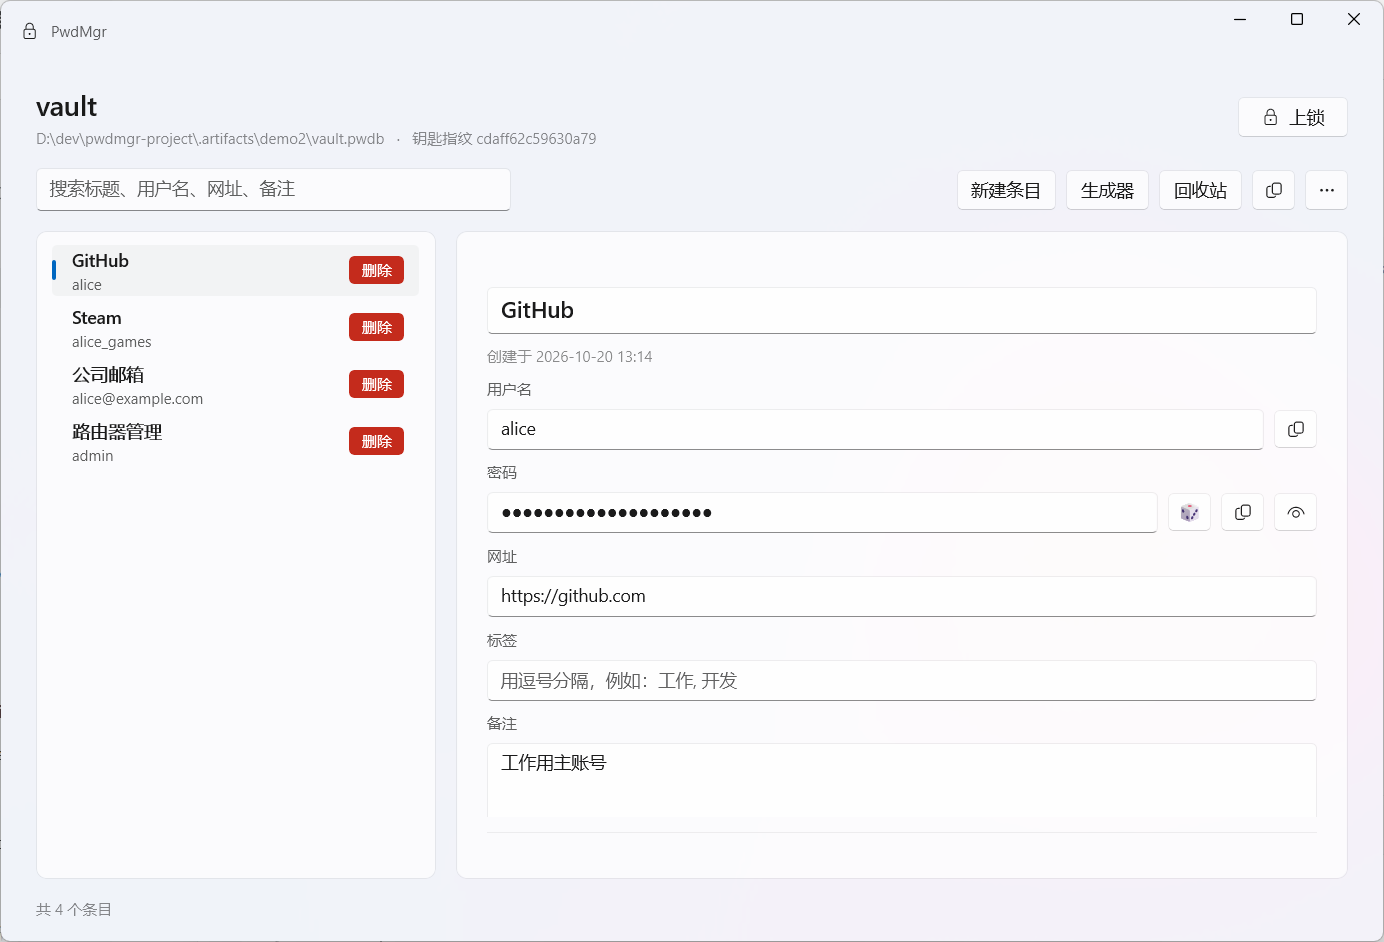
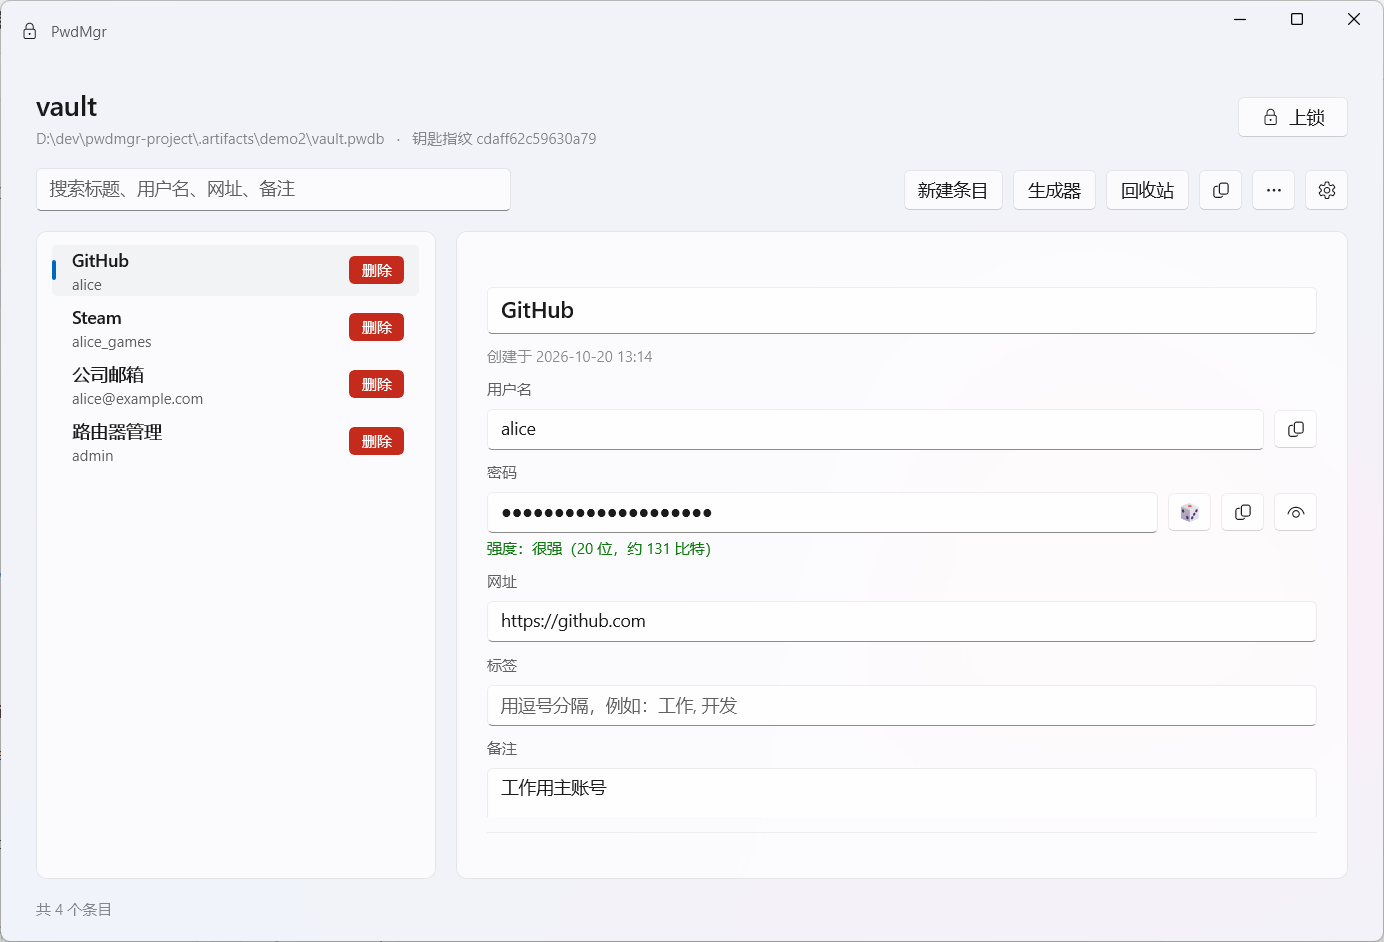
密码框下显示强度；上锁后清空钥匙路径

Changed region(s): [[0.3418, 0.5541, 0.5282, 0.8004], [0.6525, 0.1847, 0.9632, 0.2155], [0.3728, 0.8004, 0.435, 0.862]]

diff --git a/src/PwdMgr.App/Views/VaultPage.xaml b/src/PwdMgr.App/Views/VaultPage.xaml
@@ -27,7 +27,13 @@
                 <TextBlock x:Name="VaultNameText" FontSize="22" FontWeight="SemiBold" TextTrimming="CharacterEllipsis" />
                 <TextBlock x:Name="VaultMetaText" Style="{StaticResource HintTextStyle}" TextTrimming="CharacterEllipsis" />
             </StackPanel>
-            <Button Grid.Column="1" Click="OnLockClick" MinWidth="88" ToolTipService.ToolTip="锁定后需要重新选择钥匙文件">
+            <Button
+                Grid.Column="1"
+                AutomationProperties.Name="上锁"
+                AutomationProperties.AutomationId="LockButton"
+                Click="OnLockClick"
+                MinWidth="88"
+                ToolTipService.ToolTip="锁定后需要重新选择钥匙文件">
                 <StackPanel Orientation="Horizontal" Spacing="8">
                     <FontIcon Glyph="&#xE72E;" FontSize="13" />
                     <TextBlock Text="上锁" />
@@ -246,6 +252,11 @@
                                             <FontIcon Glyph="&#xE7B3;" FontSize="14" />
                                         </ToggleButton>
                                     </Grid>
+                                    <TextBlock
+                                        x:Name="PasswordStrengthText"
+                                        AutomationProperties.AutomationId="PasswordStrengthText"
+                                        Style="{StaticResource HintTextStyle}"
+                                        Text="强度：—" />
                                 </StackPanel>
 
                                 <StackPanel Spacing="4">

diff --git a/src/PwdMgr.App/App.xaml b/src/PwdMgr.App/App.xaml
@@ -46,6 +46,23 @@
                 <Setter Property="TextWrapping" Value="Wrap" />
             </Style>
 
+            <!-- 密码强度提示：用主题色区分强弱 -->
+            <Style x:Key="StrengthWeakStyle" TargetType="TextBlock">
+                <Setter Property="FontSize" Value="12" />
+                <Setter Property="Foreground" Value="{ThemeResource SystemFillColorCriticalBrush}" />
+                <Setter Property="TextWrapping" Value="Wrap" />
+            </Style>
+            <Style x:Key="StrengthMediumStyle" TargetType="TextBlock">
+                <Setter Property="FontSize" Value="12" />
+                <Setter Property="Foreground" Value="{ThemeResource SystemFillColorCautionBrush}" />
+                <Setter Property="TextWrapping" Value="Wrap" />
+            </Style>
+            <Style x:Key="StrengthStrongStyle" TargetType="TextBlock">
+                <Setter Property="FontSize" Value="12" />
+                <Setter Property="Foreground" Value="{ThemeResource SystemFillColorSuccessBrush}" />
+                <Setter Property="TextWrapping" Value="Wrap" />
+            </Style>
+
             <!-- 危险操作按钮：红底白字，悬停/按下用透明度区分（默认模板会覆盖背景色，所以自带模板） -->
             <Style x:Key="DestructiveButtonStyle" TargetType="Button">
                 <Setter Property="Background" Value="#C42B1C" />

diff --git a/src/PwdMgr.Core/Security/PasswordStrength.cs b/src/PwdMgr.Core/Security/PasswordStrength.cs
@@ -1,0 +1,97 @@
+namespace PwdMgr.Core.Security;
+
+/// <summary>密码强度评估结果。</summary>
+/// <param name="Length">密码长度（字符数）。</param>
+/// <param name="Bits">估算熵值（比特）。</param>
+/// <param name="Label">面向用户的强弱标签。</param>
+public sealed record StrengthReport(int Length, double Bits, string Label);
+
+/// <summary>
+/// 对任意密码估算强度：按出现过的字符类别粗算候选池大小，再乘长度得到熵值。
+/// 这只是一个提示，不替代真正的密码质量检查。
+/// </summary>
+public static class PasswordStrength
+{
+    private const int LowercasePool = 26;
+    private const int UppercasePool = 26;
+    private const int DigitPool = 10;
+    private const int SymbolPool = 33;
+    private const int OtherPool = 100;
+
+    public static StrengthReport Evaluate(string? password)
+    {
+        if (string.IsNullOrEmpty(password))
+        {
+            return new StrengthReport(0, 0, "—");
+        }
+
+        var pool = 0;
+        var hasLower = false;
+        var hasUpper = false;
+        var hasDigit = false;
+        var hasSymbol = false;
+        var hasOther = false;
+
+        foreach (var character in password)
+        {
+            if (char.IsAsciiLetterLower(character))
+            {
+                hasLower = true;
+            }
+            else if (char.IsAsciiLetterUpper(character))
+            {
+                hasUpper = true;
+            }
+            else if (char.IsAsciiDigit(character))
+            {
+                hasDigit = true;
+            }
+            else if (char.IsAscii(character))
+            {
+                hasSymbol = true;
+            }
+            else
+            {
+                hasOther = true;
+            }
+        }
+
+        if (hasLower)
+        {
+            pool += LowercasePool;
+        }
+
+        if (hasUpper)
+        {
+            pool += UppercasePool;
+        }
+
+        if (hasDigit)
+        {
+            pool += DigitPool;
+        }
+
+        if (hasSymbol)
+        {
+            pool += SymbolPool;
+        }
+
+        if (hasOther)
+        {
+            pool += OtherPool;
+        }
+
+        var bits = password.Length * Math.Log2(Math.Max(pool, 2));
+        return new StrengthReport(password.Length, bits, Describe(bits));
+    }
+
+    /// <summary>按熵值给出强弱标签，与生成器的口径保持一致。</summary>
+    public static string Describe(double bits) => bits switch
+    {
+        <= 0 => "—",
+        < 50 => "弱",
+        < 70 => "中等",
+        < 100 => "强",
+        _ => "很强",
+    };
+}

diff --git a/src/PwdMgr.App/Views/VaultPage.xaml.cs b/src/PwdMgr.App/Views/VaultPage.xaml.cs
@@ -434,7 +434,31 @@ public sealed partial class VaultPage : Page
 
     private void OnFieldChanged(object sender, TextChangedEventArgs e) => MarkDirty();
 
-    private void OnPasswordChanged(object sender, RoutedEventArgs e) => MarkDirty();
+    private void OnPasswordChanged(object sender, RoutedEventArgs e)
+    {
+        UpdatePasswordStrength();
+        MarkDirty();
+    }
+
+    /// <summary>密码框下方的强度提示：弱/中等/强/很强 + 估算比特数。</summary>
+    private void UpdatePasswordStrength()
+    {
+        var report = PasswordStrength.Evaluate(EditPassword.Password);
+
+        PasswordStrengthText.Text = report.Length == 0
+            ? "强度：—（还没有密码）"
+            : $"强度：{report.Label}（{report.Length} 位，约 {report.Bits:0} 比特）";
+
+        var styleKey = report.Label switch
+        {
+            "弱" => "StrengthWeakStyle",
+            "中等" => "StrengthMediumStyle",
+            "强" or "很强" => "StrengthStrongStyle",
+            _ => "HintTextStyle",
+        };
+
+        PasswordStrengthText.Style = (Style)Application.Current.Resources[styleKey];
+    }
 
     private void OnToggleRevealClick(object sender, RoutedEventArgs e)
     {
@@ -595,6 +619,8 @@ public sealed partial class VaultPage : Page
         RevealButton.IsChecked = false;
         EditPassword.PasswordRevealMode = PasswordRevealMode.Hidden;
 
+        UpdatePasswordStrength();
+
         UpdateActionBar();
         _isLoading = false;
 
@@ -632,6 +658,8 @@ public sealed partial class VaultPage : Page
 
         RevealButton.IsChecked = false;
         EditPassword.PasswordRevealMode = PasswordRevealMode.Hidden;
+
+        UpdatePasswordStrength();
 
         _baseline = CaptureForm();
         UpdateActionBar();

diff --git a/tests/PwdMgr.Core.Tests/PasswordStrengthTests.cs b/tests/PwdMgr.Core.Tests/PasswordStrengthTests.cs
@@ -1,0 +1,65 @@
+using PwdMgr.Core.Security;
+using Xunit;
+
+namespace PwdMgr.Core.Tests;
+
+public sealed class PasswordStrengthTests
+{
+    [Theory]
+    [InlineData(null)]
+    [InlineData("")]
+    public void Evaluate_Empty_ReturnsDash(string? password)
+    {
+        var report = PasswordStrength.Evaluate(password);
+
+        Assert.Equal(0, report.Length);
+        Assert.Equal(0, report.Bits);
+        Assert.Equal("—", report.Label);
+    }
+
+    [Fact]
+    public void Evaluate_ShortSimplePassword_IsWeak()
+    {
+        var report = PasswordStrength.Evaluate("abc123");
+
+        Assert.Equal(6, report.Length);
+        Assert.Equal("弱", report.Label);
+    }
+
+    [Fact]
+    public void Evaluate_LongMixedPassword_IsVeryStrong()
+    {
+        var report = PasswordStrength.Evaluate("Tr0ub4dor&3xK9!pQz#Lm7@Vn2");
+
+        Assert.True(report.Bits >= 100, $"熵值 {report.Bits:0}");
+        Assert.Equal("很强", report.Label);
+    }
+
+    [Fact]
+    public void Evaluate_AddingCharacterClasses_IncreasesBits()
+    {
+        var digitsOnly = PasswordStrength.Evaluate("839201745");
+        var mixed = PasswordStrength.Evaluate("839201745aA!");
+
+        Assert.True(mixed.Bits > digitsOnly.Bits);
+    }
+
+    [Fact]
+    public void Evaluate_ChineseCharacters_CountAsOtherPool()
+    {
+        var report = PasswordStrength.Evaluate("密码管理器");
+
+        Assert.Equal(5, report.Length);
+        Assert.True(report.Bits > 0);
+    }
+
+    [Theory]
+    [InlineData(40, "弱")]
+    [InlineData(55, "中等")]
+    [InlineData(85, "强")]
+    [InlineData(110, "很强")]
+    public void Describe_MapsBitsToLabel(double bits, string expected)
+    {
+        Assert.Equal(expected, PasswordStrength.Describe(bits));
+    }
+}

diff --git a/src/PwdMgr.App/Services/AppShell.cs b/src/PwdMgr.App/Services/AppShell.cs
@@ -115,7 +115,12 @@ public sealed class AppShell
 
     public void NavigateToCreate() => Frame.Navigate(typeof(CreateVaultPage));
 
-    public void NavigateToUnlock(string? vaultPath = null) => Frame.Navigate(typeof(UnlockVaultPage), vaultPath);
+    public void NavigateToUnlock(string? vaultPath = null, bool suggestKey = false) =>
+        Frame.Navigate(
+            typeof(UnlockVaultPage),
+            new UnlockNavigationArgs(
+                vaultPath ?? string.Empty,
+                suggestKey && !string.IsNullOrWhiteSpace(vaultPath)));
 
     public void NavigateToTrash() => Frame.Navigate(typeof(TrashPage));
 
@@ -161,13 +166,13 @@ public sealed class AppShell
         catch (VaultException ex)
         {
             StartupLog.Write($"StartAsync：打开失败 {ex.Code} {ex.Message}");
-            NavigateToUnlock(arguments[0]);
+            NavigateToUnlock(arguments[0], suggestKey: true);
         }
         catch (Exception ex) when (ex is IOException or UnauthorizedAccessException or ArgumentException
                                       or InvalidOperationException or XamlParseException)
         {
             StartupLog.Write("StartAsync：意外失败", ex);
-            NavigateToUnlock(arguments[0]);
+            NavigateToUnlock(arguments[0], suggestKey: true);
         }
     }
 

diff --git a/src/PwdMgr.App/Views/UnlockVaultPage.xaml.cs b/src/PwdMgr.App/Views/UnlockVaultPage.xaml.cs
@@ -24,15 +24,23 @@ public sealed partial class UnlockVaultPage : Page
     {
         base.OnNavigatedTo(e);
 
-        if (e.Parameter is string vaultPath && !string.IsNullOrWhiteSpace(vaultPath))
+        if (e.Parameter is not UnlockNavigationArgs args || string.IsNullOrWhiteSpace(args.VaultPath))
         {
-            ViewModel.VaultPath = vaultPath;
+            return;
+        }
 
-            var suggestedKeyPath = FilePickerService.SuggestKeyPath(vaultPath);
-            if (File.Exists(suggestedKeyPath))
-            {
-                ViewModel.KeyPath = suggestedKeyPath;
-            }
+        ViewModel.VaultPath = args.VaultPath;
+
+        // 从“上锁”回来时不带钥匙路径，必须重新选择钥匙文件。
+        if (!args.SuggestKey)
+        {
+            return;
+        }
+
+        var suggestedKeyPath = FilePickerService.SuggestKeyPath(args.VaultPath);
+        if (File.Exists(suggestedKeyPath))
+        {
+            ViewModel.KeyPath = suggestedKeyPath;
         }
     }
 

diff --git a/src/PwdMgr.App/Views/UnlockNavigationArgs.cs b/src/PwdMgr.App/Views/UnlockNavigationArgs.cs
@@ -1,0 +1,8 @@
+namespace PwdMgr.App.Views;
+
+/// <summary>
+/// 导航到“打开密码库”页时携带的参数。
+/// <paramref name="SuggestKey"/> 为 true 时（例如拖入文件、命令行启动）会顺手填上同名钥匙路径；
+/// 从“上锁”回来时是 false，钥匙路径保持为空，要求用户重新选择钥匙文件。
+/// </summary>
+public sealed record UnlockNavigationArgs(string VaultPath, bool SuggestKey);

diff --git a/src/PwdMgr.App/Views/WelcomePage.xaml.cs b/src/PwdMgr.App/Views/WelcomePage.xaml.cs
@@ -48,7 +48,7 @@ public sealed partial class WelcomePage : Page
         if (result.VaultPath is { } vaultPath)
         {
             DropErrorBar.IsOpen = false;
-            App.Shell.NavigateToUnlock(vaultPath);
+            App.Shell.NavigateToUnlock(vaultPath, suggestKey: true);
             return;
         }
 

diff --git a/docs/技术方案-v1.md b/docs/技术方案-v1.md
@@ -722,3 +722,21 @@ M5 交付：备份、自检、从备份恢复、错误提示与互斥提示。
 - **ContentDialog 仍是浅色**：对话框不会继承窗口根元素的 RequestedTheme。现在创建对话框后统一调用 ThemeService.ApplyToDialog(dialog)（设置 RequestedTheme），创建密码库成功提示、删除确认、彻底删除、清空回收站四个对话框都覆盖到。
 - **标题栏的最小化/最大化/关闭仍是系统配色**：自定义标题栏下这些按钮由系统绘制。现在 MainWindow.ApplyTitleBarTheme 设置 AppWindow.TitleBar.PreferredTheme（跟随系统时为 UseDefaultAppMode），并同步按钮前景/悬停/按下颜色作为兜底。
 - 验证：系统浅色、程序切深色后，删除确认框整体变深；标题栏三个按钮变成白色图标。
+
+---
+
+## 30. 密码强度提示 + 上锁后清空钥匙路径
+
+### 30.1 密码框下方的强度提示
+
+- Core 新增 PasswordStrength.Evaluate：按出现过的字符类别粗算候选池（小写 26 / 大写 26 / 数字 10 / 符号 33 / 其它 100），熵值 = 长度 × log2(池大小)，再用与生成器一致的口径给出「弱 / 中等 / 强 / 很强」。
+- 界面在密码框下方显示“强度：很强（20 位，约 131 比特）”，颜色用主题色区分：弱=红、中=橙、强/很强=绿（App.xaml 里三个带 ThemeResource 的 Style，深色主题同样适用）。
+- 切换条目、新建草稿、手动改密码、用骰子生成时都会刷新。
+- 测试：新增 10 个用例（空密码、短密码偏弱、长混合密码很强、增加字符类别提高熵值、中文按其它类别计算、标签映射），Core 测试共 **86** 个通过。
+
+### 30.2 上锁后清空钥匙路径
+
+- 上锁后跳转“打开密码库”页时只带密码库路径；UnlockNavigationArgs.SuggestKey=false，钥匙路径保持为空，必须重新选择或输入钥匙文件。“打开”按钮在钥匙为空时不可用。
+- 其它入口（拖入文件、命令行启动失败回退）仍然会顺手填上同名 .key，这两处显式传 suggestKey: true。
+- 验证：UI 自动化上锁后读取两个输入框——VAULT_AFTER_LOCK=…vault.pwdb、KEY_AFTER_LOCK=（空）、KEY_CLEARED=True。
+- 顺手修了“上锁”按钮缺少无障碍名称的问题（AutomationProperties.Name="上锁"）。

diff --git a/README.md b/README.md
@@ -19,7 +19,7 @@
 |---|---|
 | ![回收站](docs/ui/trash.png) | ![密码生成器](docs/ui/generator.png) |
 
-条目字段直接可改，出现改动后卡片底部出现“保存修改 / 放弃修改”。每个列表项右侧有红色“删除”按钮，点击后二次确认，删除的条目进入回收站；回收站里每项可“恢复”或“彻底删除”（红色），也可清空回收站。密码框右侧有“🎲”按钮直接生成密码，用户名和密码旁都可以一键复制（30 秒后自动清空剪贴板）。闲置 5 分钟或锁屏时自动上锁。
+条目字段直接可改，出现改动后卡片底部出现“保存修改 / 放弃修改”。每个列表项右侧有红色“删除”按钮，点击后二次确认，删除的条目进入回收站；回收站里每项可“恢复”或“彻底删除”（红色），也可清空回收站。密码框右侧有“🎲”按钮直接生成密码，密码框下方显示强度（弱/中等/强/很强 + 估算比特数），用户名和密码旁都可以一键复制（30 秒后自动清空剪贴板）。闲置 5 分钟或锁屏时自动上锁；上锁后只保留密码库路径，钥匙路径会被清空，需要重新选择钥匙文件才能再次打开。
 
 创建与打开页面既可以用“选择…”挑文件，也可以直接输入或粘贴路径（输入库路径时会自动补出钥匙路径）。欢迎页的图标与标题居中显示。窗口有最小尺寸（900×640），防止被拖得过窄后内容被裁切；密码生成器窗口最小 460×560。
 
@@ -151,5 +151,6 @@ dotnet run --project tools/PwdMgr.Cli -- list .\demo\vault.pwdb .\demo\vault.key
 - 生成器的长度与字符选项暂不保存，重启后回到默认值（长度 20、全字符集、排除易混淆字符）。
 - 快捷键：`Ctrl+N` 新建、`Ctrl+G` 生成器、`Ctrl+F` 搜索、`Ctrl+L` 上锁、`Ctrl+S` 保存。
 - 程序目录下的 `startup.log` 记录启动与异常信息（Debug 构建记录每个启动步骤，Release 只记录异常），可随时删除。
+
 
 
